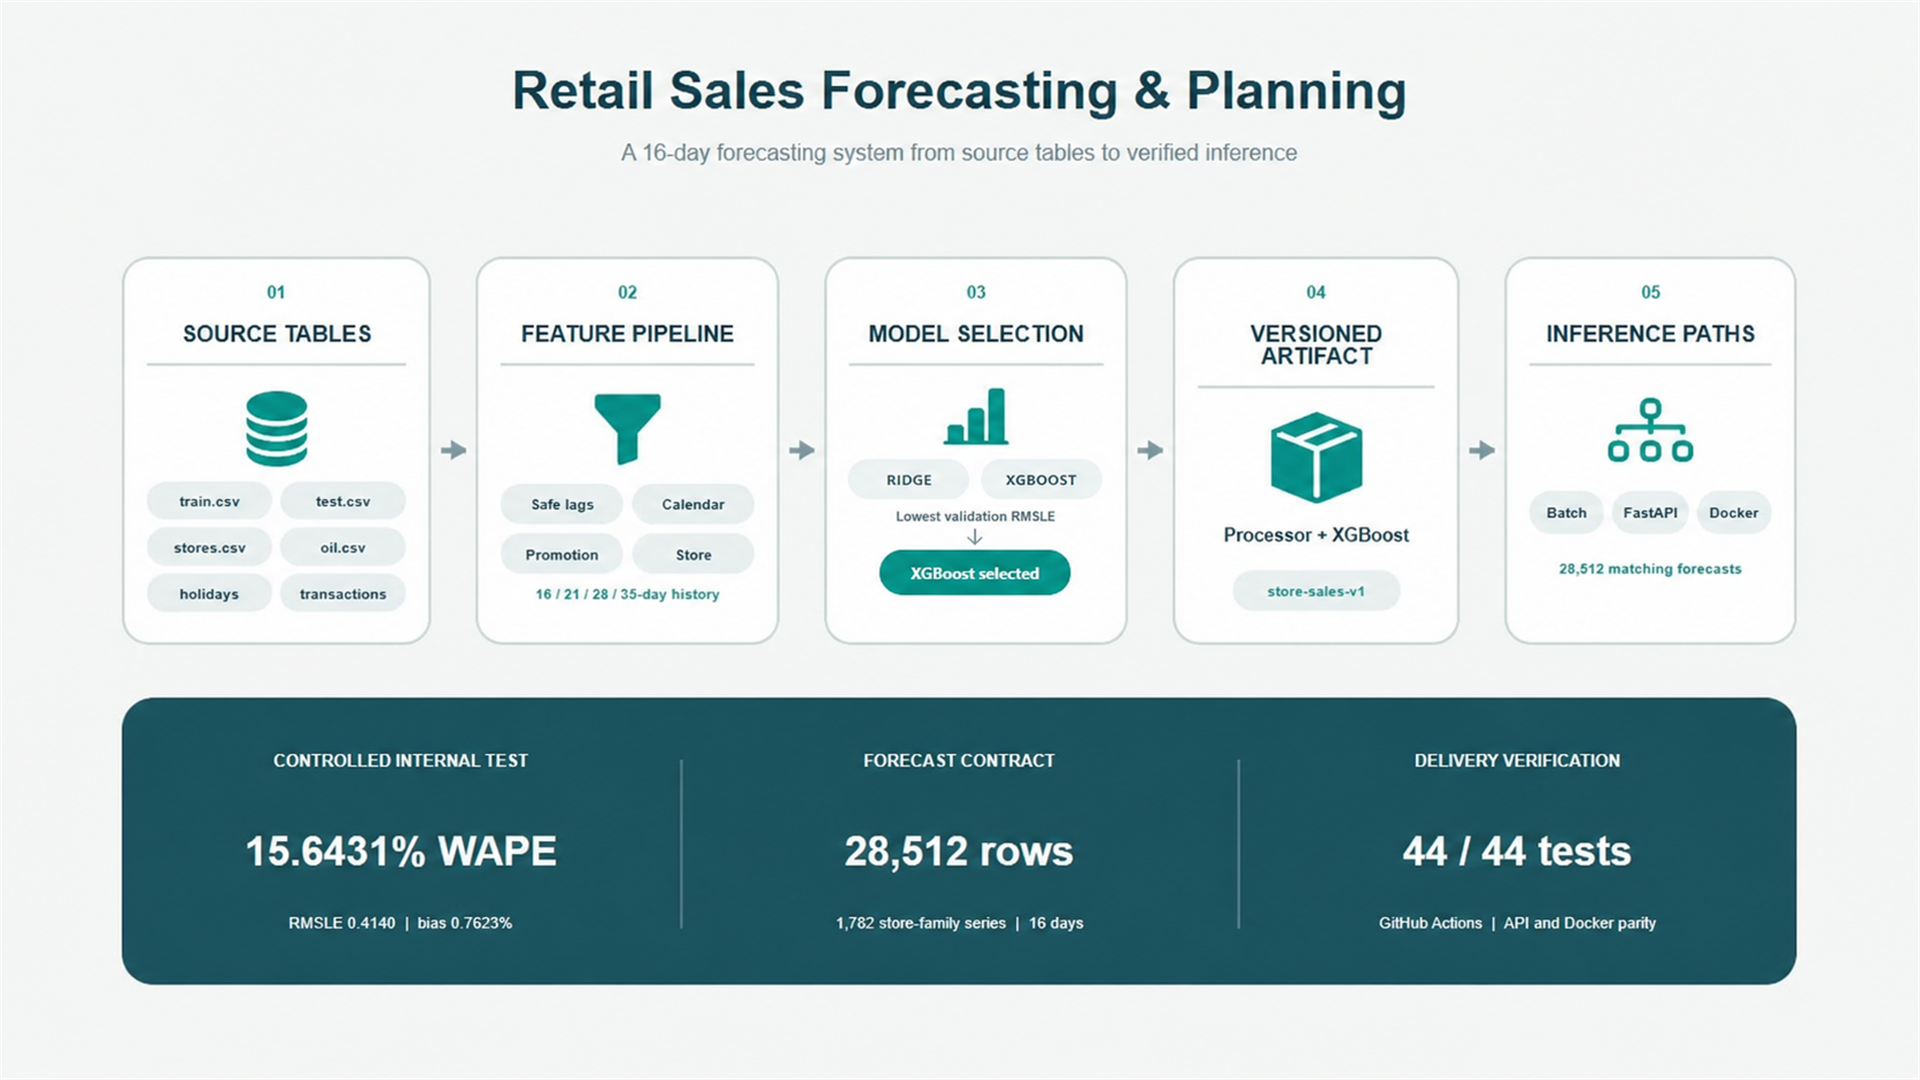
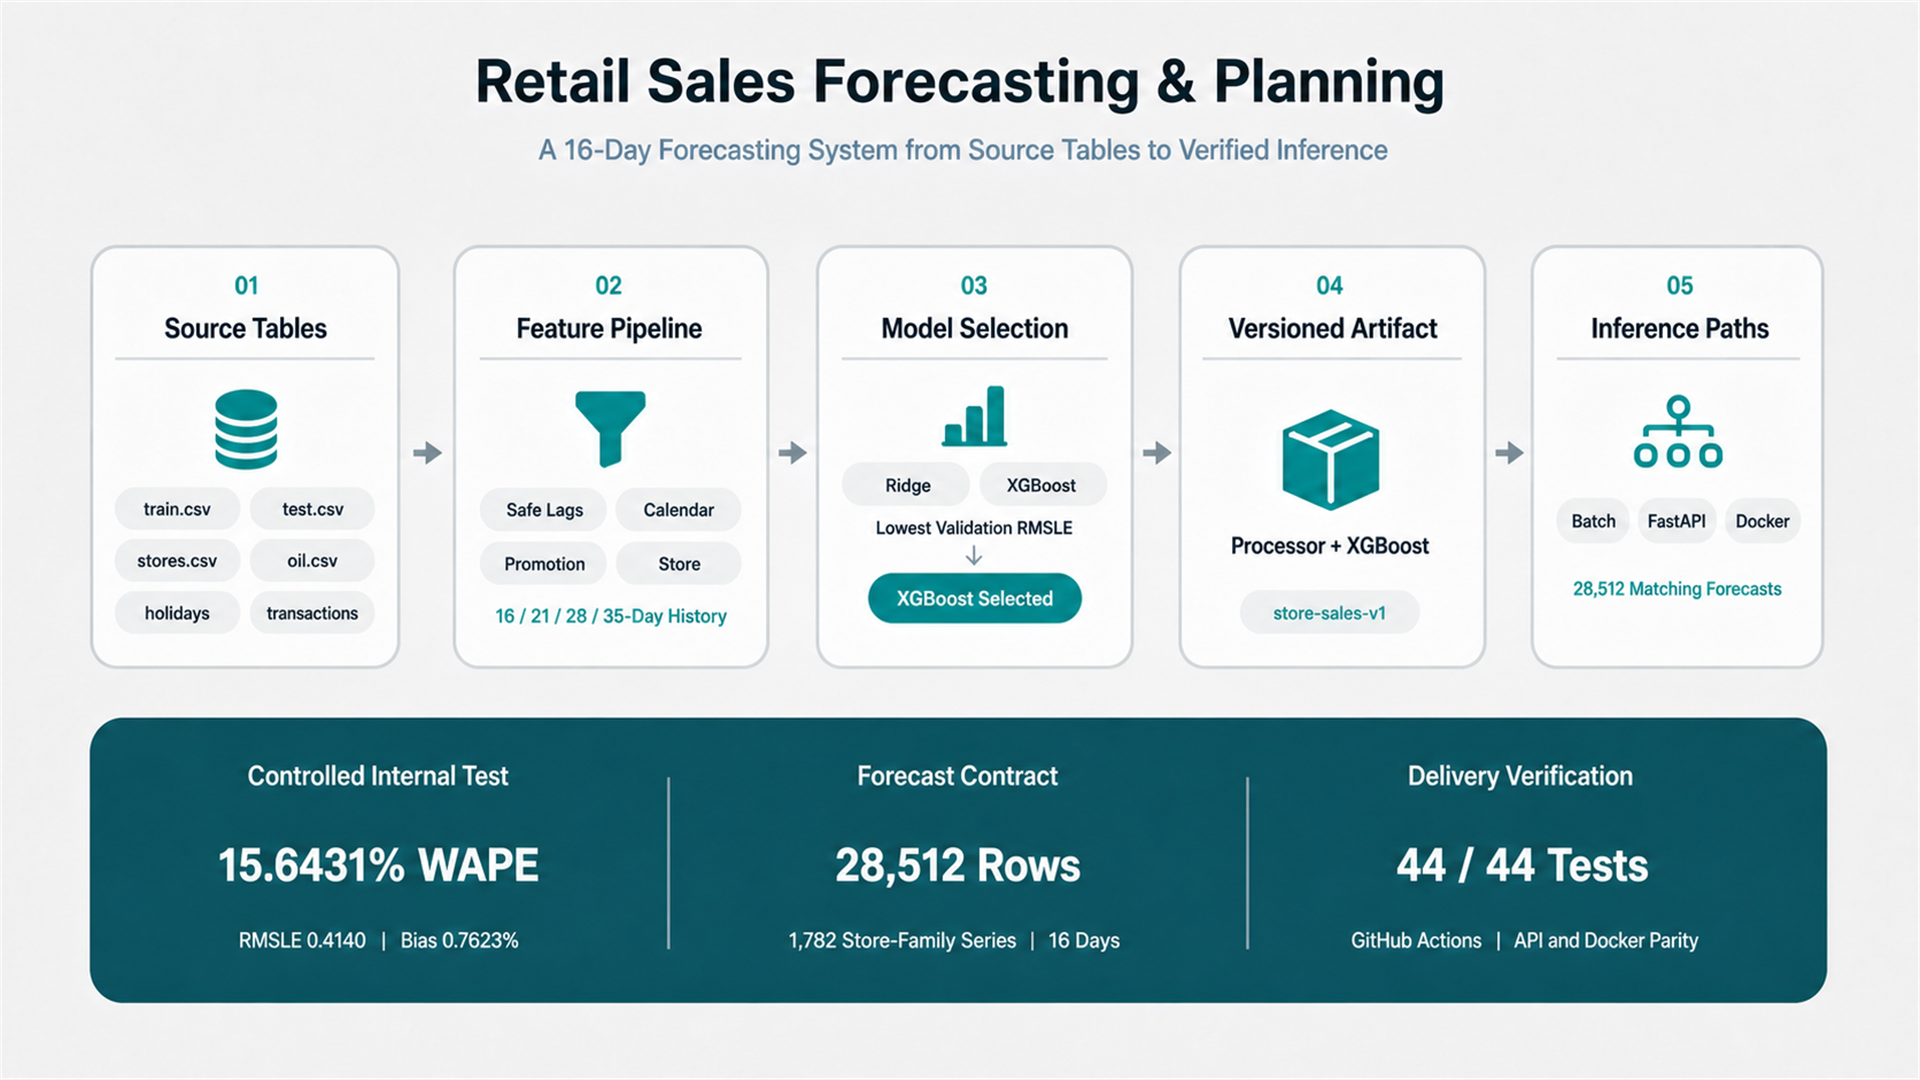
style: align retail visual capitalization

diff --git a/index.html b/index.html
@@ -77,7 +77,7 @@
     <script>
       (() => {
         const releaseParameter = "release";
-        const embeddedRelease = "20260823-03";
+        const embeddedRelease = "20260823-04";
         const loadedRelease = new URLSearchParams(window.location.search).get(releaseParameter);
         const releaseMarkerUrl = new URL("site-version.json", window.location.href);
         releaseMarkerUrl.searchParams.set("check", Date.now().toString());
@@ -267,8 +267,8 @@
               </div>
               <div class="project-result-column">
                 <figure class="project-visual">
-                  <a class="project-image-link" href="assets/projects/retail-sales-forecasting.png?v=20260821a" target="_blank" rel="noopener noreferrer" aria-label="Open the retail forecasting system visual at full size">
-                    <img src="assets/projects/retail-sales-forecasting.png?v=20260821a" alt="Retail forecasting flow from 6 source tables through forecast-safe features, Ridge and XGBoost selection by validation RMSLE, a versioned artifact, and matching batch, FastAPI, and Docker inference" width="1920" height="1080" loading="lazy" decoding="async">
+                  <a class="project-image-link" href="assets/projects/retail-sales-forecasting.png?v=20260823c" target="_blank" rel="noopener noreferrer" aria-label="Open the retail forecasting system visual at full size">
+                    <img src="assets/projects/retail-sales-forecasting.png?v=20260823c" alt="Retail forecasting flow from 6 source tables through forecast-safe features, Ridge and XGBoost selection by validation RMSLE, a versioned artifact, and matching batch, FastAPI, and Docker inference" width="1920" height="1080" loading="lazy" decoding="async">
                   </a>
                   <figcaption>1 versioned XGBoost artifact drives the same 16-day contract across batch, FastAPI, and Docker inference.</figcaption>
                 </figure>

diff --git a/PROJECT.md b/PROJECT.md
@@ -429,6 +429,11 @@ remain readable at card size, and every number, method, system component, and
 result shown in the image must be traceable to the project's current registry
 record and source evidence.
 
+English visual headings, short labels, and metric labels use natural title case;
+complete descriptive sentences use sentence case. Indonesian visual text
+follows PUEBI. Full capitals are reserved for acronyms, initialisms, and official
+brand styling.
+
 Every public visual uses a deliberate alignment grid with consistent spacing,
 padding, component dimensions, text alignment, icon placement, and hierarchy.
 Approval requires inspection at the visual's real website-card size; visibly
